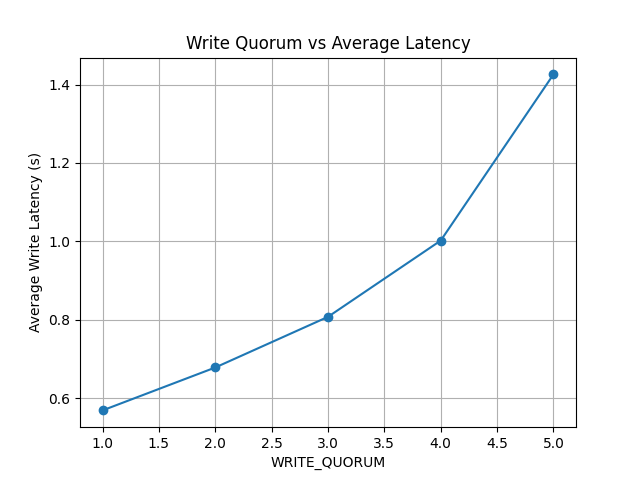
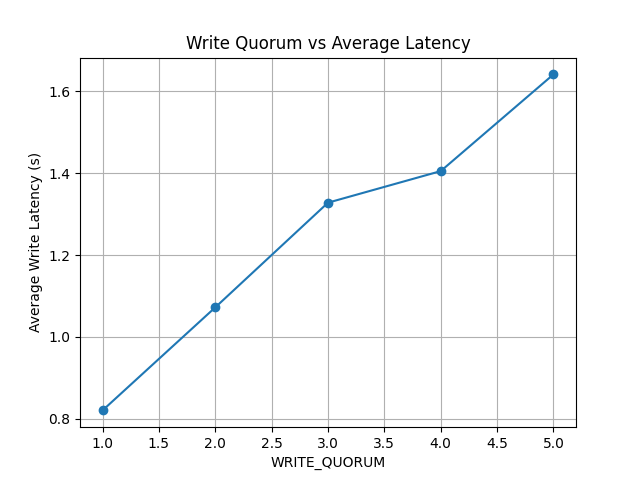
Minor changes

diff --git a/Lab4/plot_test.py b/Lab4/plot_test.py
@@ -3,14 +3,12 @@ import threading
 import time
 import requests
 import matplotlib.pyplot as plt
-
-
 import requests
 
 
-THREADS = 15
-WRITES = 10000
-KEYS = 100
+THREADS = 10
+WRITES = 100
+KEYS = 10
 
 LEADER = "http://localhost:5000"
 FOLLOWERS = [
@@ -69,12 +67,8 @@ def main():
     avg_latencies = []
 
     for q in range(quorum):
-
         print(f"Running test with QUORUM={q+1}", flush=True)
         avg_latencies.append(run(q+1))
-
-
-
 
     plt.plot(range(1, quorum+1), avg_latencies, marker='o')
     plt.xlabel("WRITE_QUORUM")
@@ -87,13 +81,9 @@ def main():
     print(avg_latencies)
 
 
-
-
 def check_replications():
-
     leader = {}
     per_follower_matches = {f: 0 for f in FOLLOWERS}
-   
 
     for key in range(KEYS):
         r = requests.get(f"{LEADER}/read?key={key}")

diff --git a/Lab4/integration_test.py b/Lab4/integration_test.py
@@ -28,13 +28,14 @@ def test():
     assert store.json()["value"] == value, "Leader does not have the correct value!"
 
 
-# 4. Check followers
+
     for f in FOLLOWERS:
         fr = requests.get(f"{f}/read?key={key}")
         assert fr.status_code == 200
+        print(fr.json())
         assert fr.json()["value"] == value, f"Follower {f} does NOT have replicated data!"
 
-    print("✓ Replication integration test passed successfully!")
+    print("Replication integration test passed successfully!")
     
 
 

diff --git a/Lab4/README.md b/Lab4/README.md
@@ -51,8 +51,8 @@ services:
       ROLE: leader
       FOLLOWERS: follower1:5000,follower2:5000,follower3:5000,follower4:5000,follower5:5000
       WRITE_QUORUM: 2
-      MIN_DELAY: 0.0001
-      MAX_DELAY: 0.001
+      MIN_DELAY: 0
+      MAX_DELAY: 1
 
     ports:
       - "5000:5000"
@@ -154,17 +154,17 @@ def write():
 
 
     def replicate_to_follower(follower, key, value, results):
-    delay = random.uniform(MIN_DELAY, MAX_DELAY)
-    time.sleep(delay)
-    
-    try:
-        r = requests.post(f"http://{follower}/replicate", json={"key": key, "value": value})   
-        with lock:
-            results.append(r.status_code == 200)
-    except:
-        with lock:
-            results.append(False)
-```
+      delay = random.uniform(MIN_DELAY, MAX_DELAY)
+      time.sleep(delay)
+      
+      try:
+          r = requests.post(f"http://{follower}/replicate", json={"key": key, "value": value})   
+          with lock:
+              results.append(r.status_code == 200)
+      except:
+          with lock:
+              results.append(False)
+  ```
 
 ### Followers
 
@@ -193,7 +193,7 @@ for f in FOLLOWERS:
         assert fr.status_code == 200
         assert fr.json()["value"] == value, f"Follower {f} does NOT have replicated data!"
 
-print("✓ Replication integration test passed successfully!")
+print("Replication integration test passed successfully!")
 
 ```
 
@@ -215,7 +215,7 @@ def write_one(key, value, quorum):
 For quorum values from 1 to 5, the performance test collected average latency.
 After all runs, a plot was generated:
 
-<img src="plot.png" alt="Quorum values vs Latency" width="400">
+<img src="plot_big.png" alt="Quorum values vs Latency" width="400">
 
 As expected, increasing the write quorum makes the write latency go up.
 
